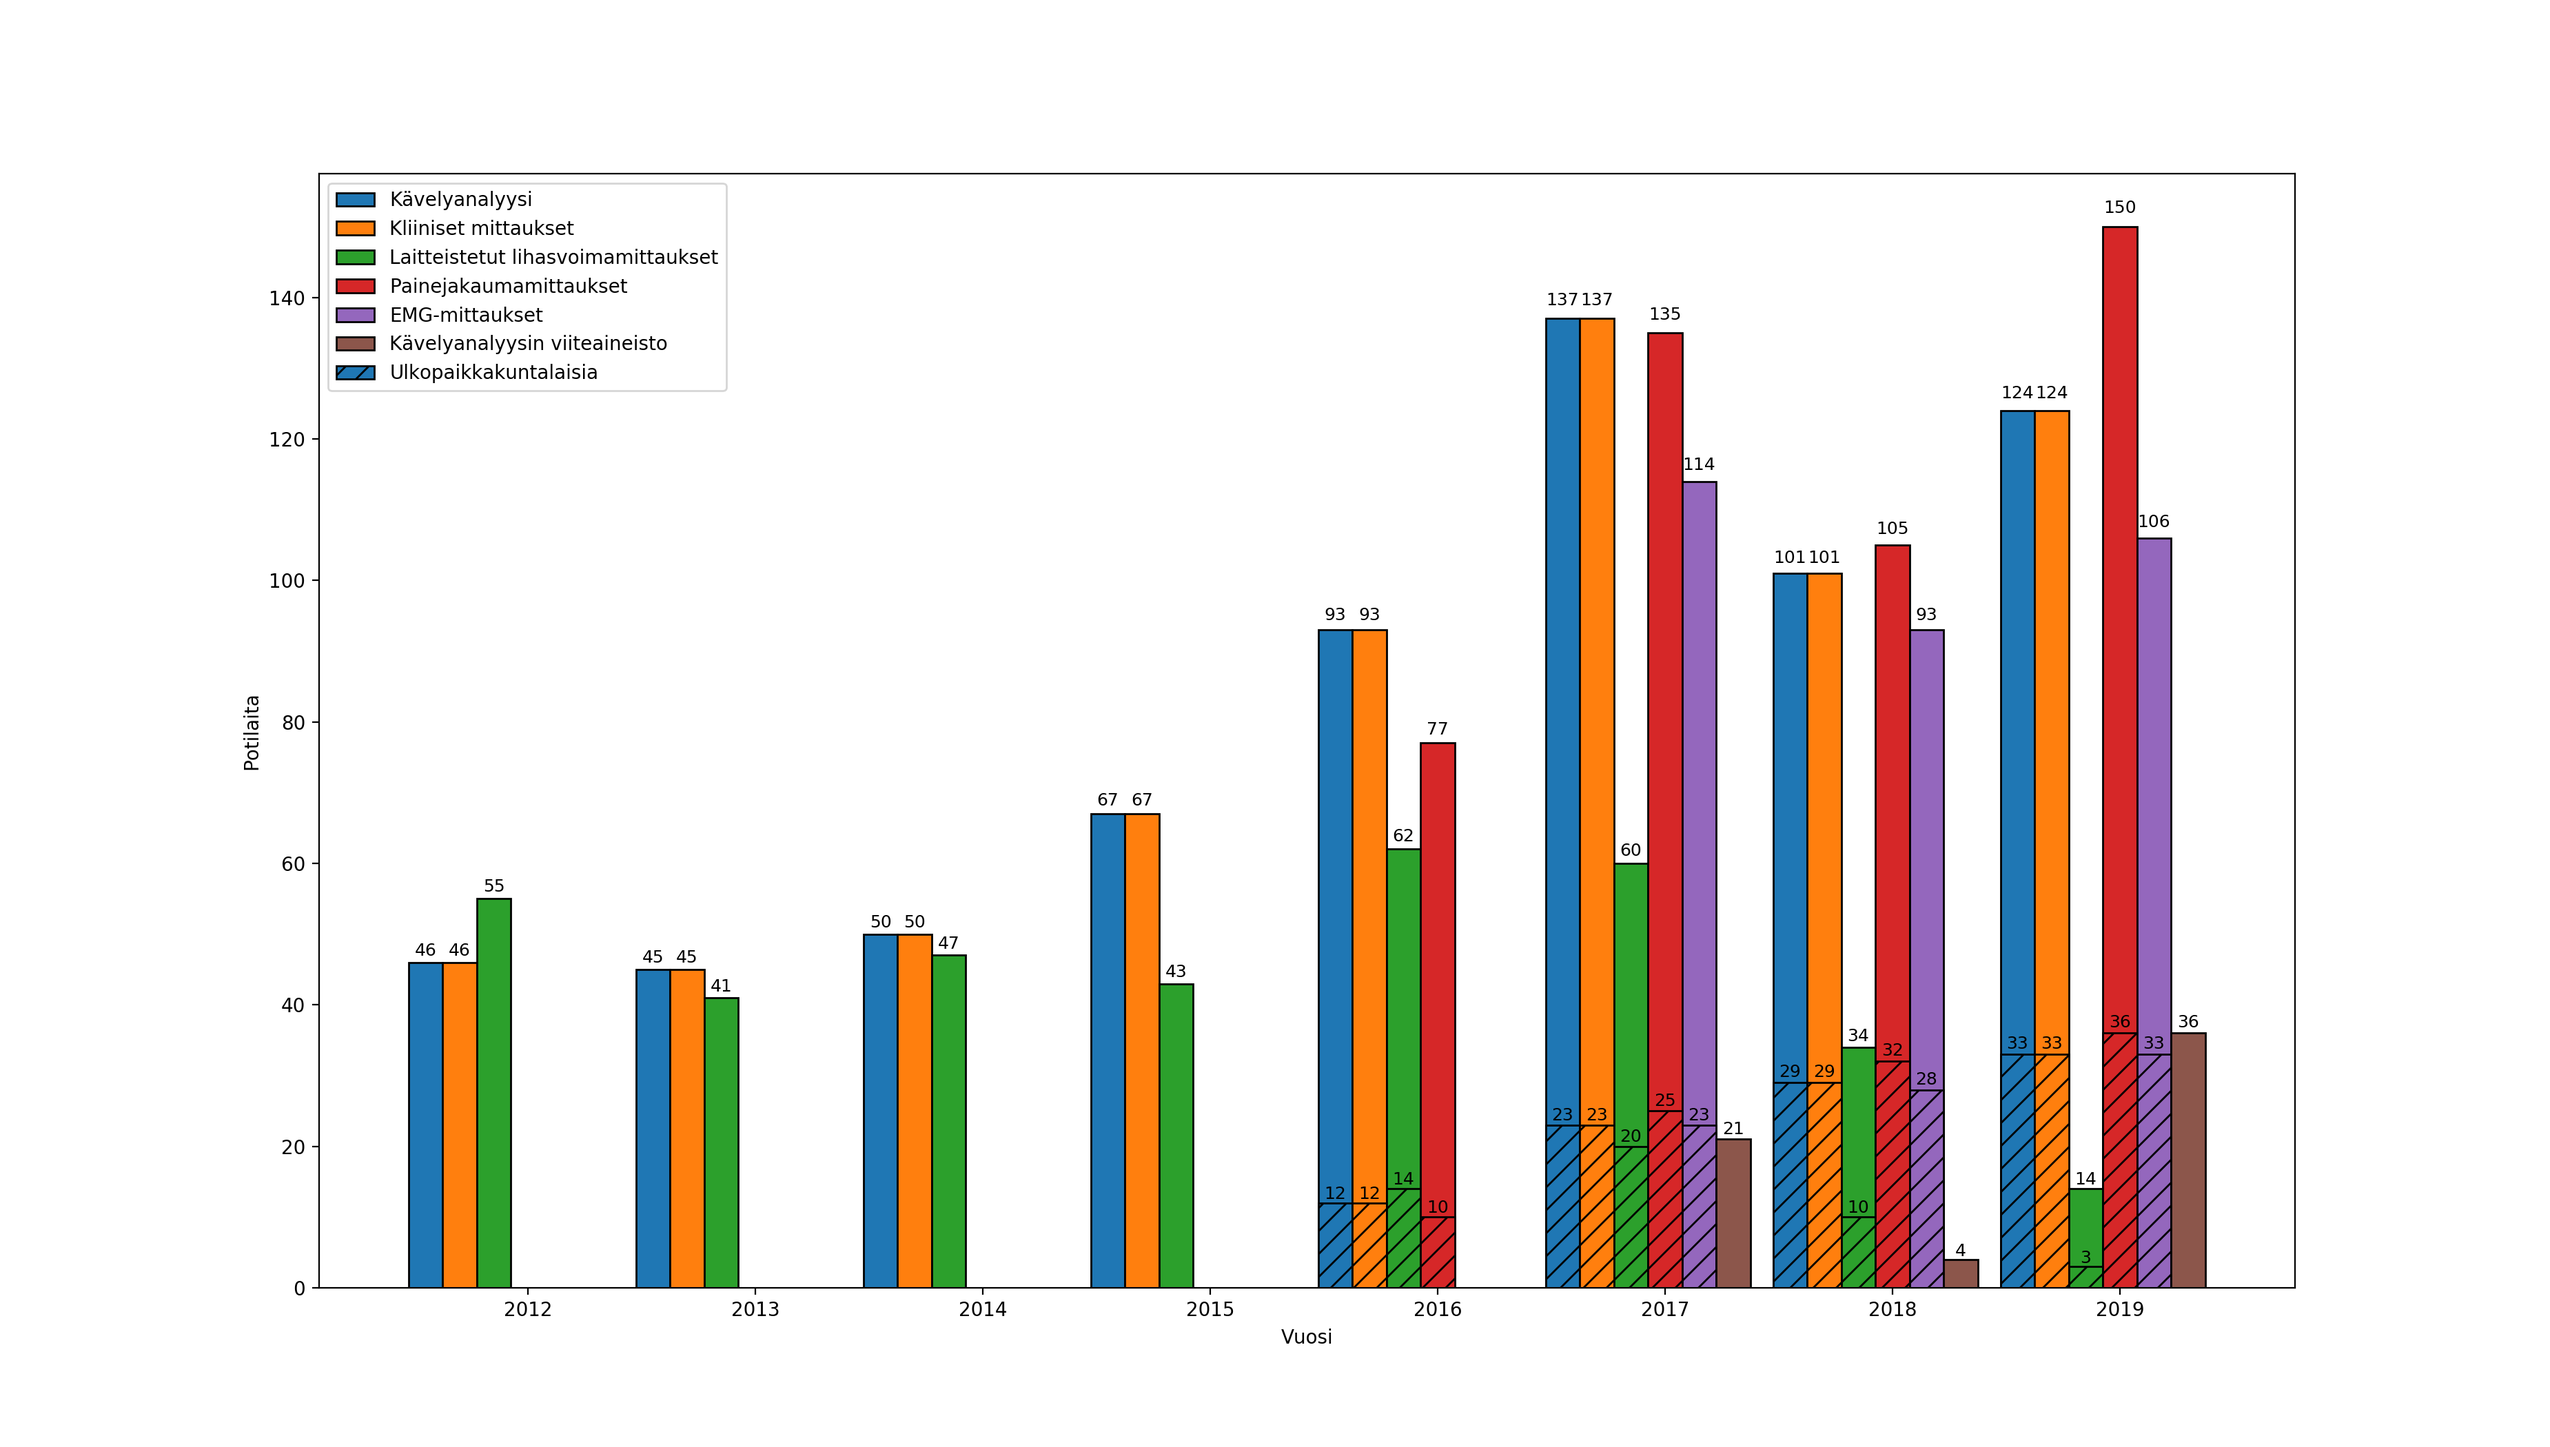
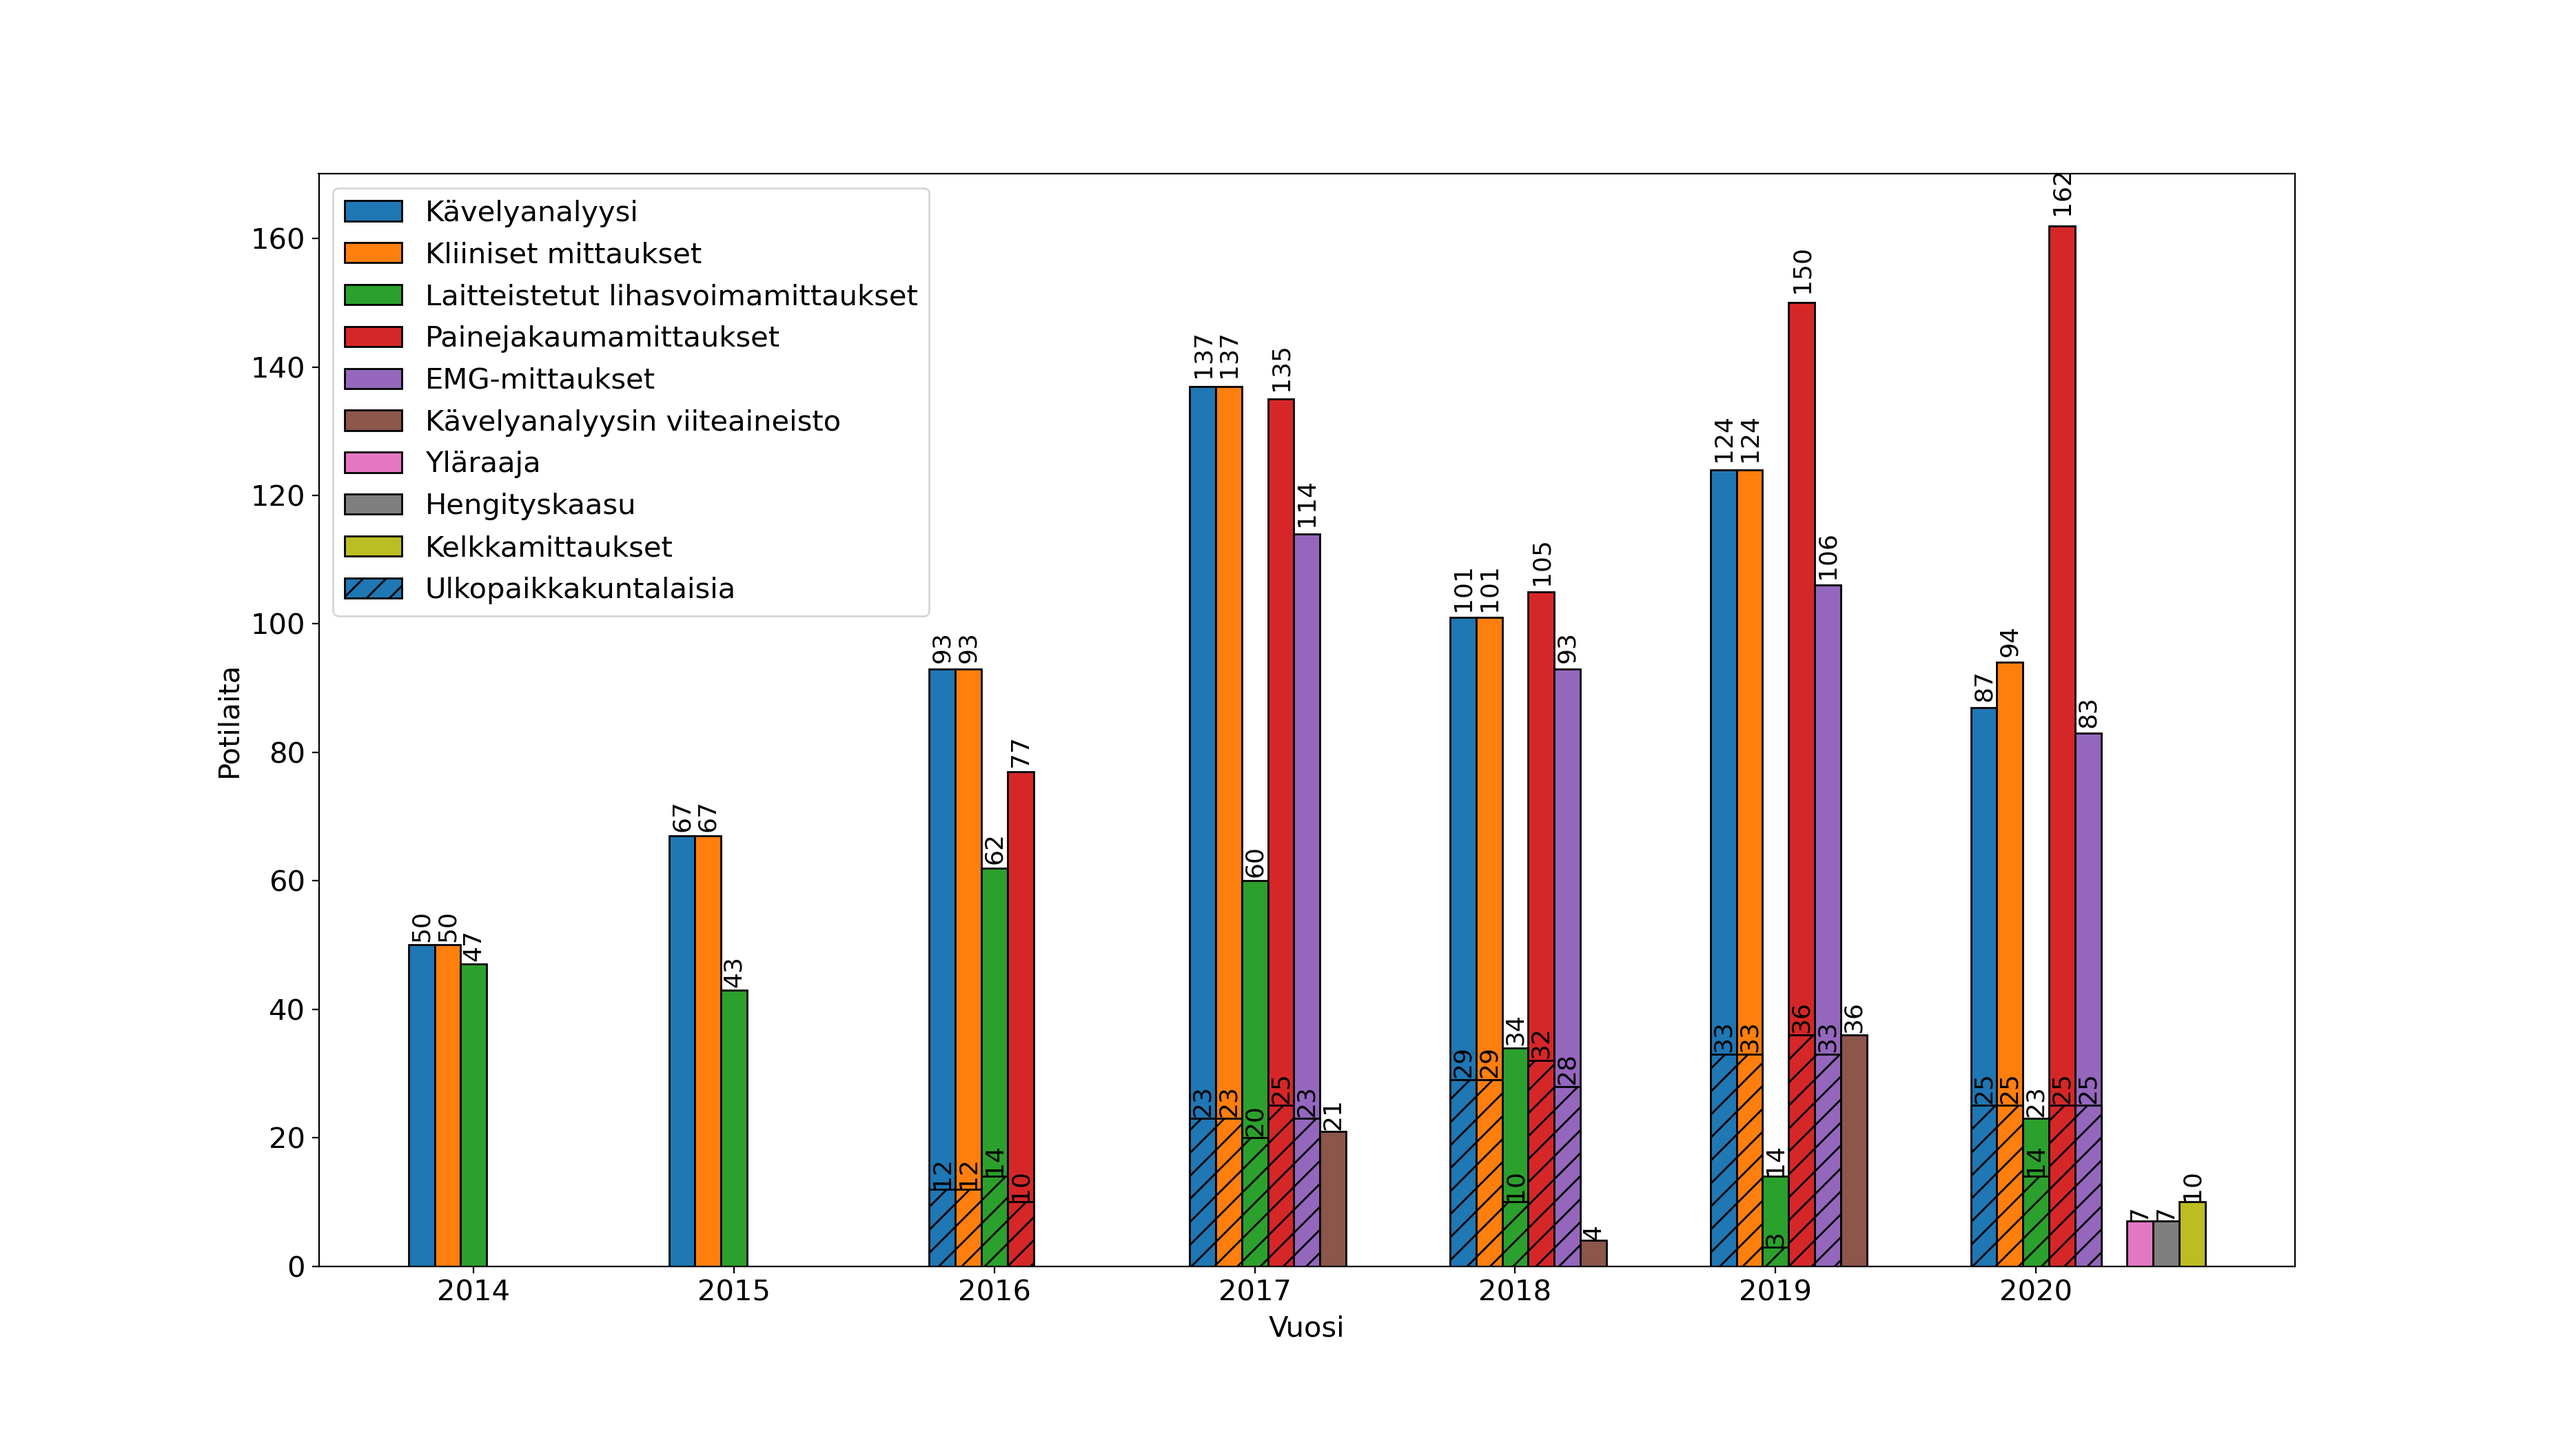
new stats for 2020 & limit years plotted

diff --git a/misc/potilaat_barchart.py b/misc/potilaat_barchart.py
@@ -10,6 +10,12 @@ import matplotlib.pyplot as plt
 import numpy as np
 from collections import OrderedDict
 
+FONTSIZE = 15
+
+# set global font size
+plt.rc('font', size=FONTSIZE)
+
+
 
 def autolabel(rects):
     """
@@ -18,38 +24,91 @@ def autolabel(rects):
     for rect in rects:
         height = rect.get_height()
         if height != 0:
-            plt.text(rect.get_x() + rect.get_width()/2., 1.01*height,
-                     '%d' % int(height), ha='center', va='bottom', fontsize=9)
+            plt.text(
+                rect.get_x() + rect.get_width() / 2,
+                1.01 * height,
+                '%d' % int(height),
+                ha='center',
+                va='bottom',
+                fontsize=FONTSIZE-2,
+                rotation=90,
+            )
+
 
 # specify input data
-yrs = range(2012, 2020)
+
+# years corresponding to data vectors
+yrs = range(2012, 2021)
+# optionally, only plot data for certain years
+yrs_plot = range(2014, 2021)
+
+# 2020 uudet kategoriat:
+#
+# yläraaja
+# liikelaajuus = kliininen mittaus
+# kelkkamittaus
+# hengityskaasu
+
 
 data = OrderedDict()  # bars will be plotted in the order they are given here
 data[u'Kävelyanalyysi'] = dict()
-data[u'Kävelyanalyysi']['total'] = [46, 45, 50, 67, 93, 137, 101, 124]
-data[u'Kävelyanalyysi']['ulko'] = [0, 0, 0, 0, 12, 23, 29, 33]
+data[u'Kävelyanalyysi']['total'] = [46, 45, 50, 67, 93, 137, 101, 124, 87]
+data[u'Kävelyanalyysi']['ulko'] = [0, 0, 0, 0, 12, 23, 29, 33, 25]
 
 data[u'Kliiniset mittaukset'] = dict()
-data[u'Kliiniset mittaukset']['total'] = [46, 45, 50, 67, 93, 137, 101, 124]
-data[u'Kliiniset mittaukset']['ulko'] = [0, 0, 0, 0, 12, 23, 29, 33]
+data[u'Kliiniset mittaukset']['total'] = [46, 45, 50, 67, 93, 137, 101, 124, 94]
+data[u'Kliiniset mittaukset']['ulko'] = [0, 0, 0, 0, 12, 23, 29, 33, 25]
 
 data[u'Laitteistetut lihasvoimamittaukset'] = dict()
-data[u'Laitteistetut lihasvoimamittaukset']['total'] = [55, 41, 47, 43, 62, 60, 34, 14]
-data[u'Laitteistetut lihasvoimamittaukset']['ulko'] = [0, 0, 0, 0, 14, 20, 10, 3]
+data[u'Laitteistetut lihasvoimamittaukset']['total'] = [
+    55,
+    41,
+    47,
+    43,
+    62,
+    60,
+    34,
+    14,
+    23,
+]
+data[u'Laitteistetut lihasvoimamittaukset']['ulko'] = [0, 0, 0, 0, 14, 20, 10, 3, 14]
 
 data[u'Painejakaumamittaukset'] = dict()
-data[u'Painejakaumamittaukset']['total'] = [0, 0, 0, 0, 77, 135, 105, 150]
-data[u'Painejakaumamittaukset']['ulko'] = [0, 0, 0, 0, 10, 25, 32, 36]
+data[u'Painejakaumamittaukset']['total'] = [0, 0, 0, 0, 77, 135, 105, 150, 162]
+data[u'Painejakaumamittaukset']['ulko'] = [0, 0, 0, 0, 10, 25, 32, 36, 25]
 
 data[u'EMG-mittaukset'] = dict()
-data[u'EMG-mittaukset']['total'] = [0, 0, 0, 0, 0, 114, 93, 106]
-data[u'EMG-mittaukset']['ulko'] = [0, 0, 0, 0, 0, 23, 28, 33]
+data[u'EMG-mittaukset']['total'] = [0, 0, 0, 0, 0, 114, 93, 106, 83]
+data[u'EMG-mittaukset']['ulko'] = [0, 0, 0, 0, 0, 23, 28, 33, 25]
 
 data[u'Kävelyanalyysin viiteaineisto'] = dict()
-data[u'Kävelyanalyysin viiteaineisto']['total'] = [0, 0, 0, 0, 0, 21, 4, 36]
-data[u'Kävelyanalyysin viiteaineisto']['ulko'] = [0, 0, 0, 0, 0, 0, 0, 0]
+data[u'Kävelyanalyysin viiteaineisto']['total'] = [0, 0, 0, 0, 0, 21, 4, 36, 0]
+data[u'Kävelyanalyysin viiteaineisto']['ulko'] = [0, 0, 0, 0, 0, 0, 0, 0, 0]
 
-assert all(len(yrs) == len(li) for di in data.values() for li in di.values())
+data[u'Yläraaja'] = dict()
+data[u'Yläraaja']['total'] = [0, 0, 0, 0, 0, 0, 0, 0, 7]
+data[u'Yläraaja']['ulko'] = [0, 0, 0, 0, 0, 0, 0, 0, 0]
+
+data[u'Hengityskaasu'] = dict()
+data[u'Hengityskaasu']['total'] = [0, 0, 0, 0, 0, 0, 0, 0, 7]
+data[u'Hengityskaasu']['ulko'] = [0, 0, 0, 0, 0, 0, 0, 0, 0]
+
+data[u'Kelkkamittaukset'] = dict()
+data[u'Kelkkamittaukset']['total'] = [0, 0, 0, 0, 0, 0, 0, 0, 10]
+data[u'Kelkkamittaukset']['ulko'] = [0, 0, 0, 0, 0, 0, 0, 0, 0]
+
+# check length
+for var, di in data.items():
+    for name, li in di.items():
+        if len(li) != len(yrs):
+            raise RuntimeError(u'invalid data length for %s/%s' % (var, name))
+
+# crop data to desired years
+# assumes continuous ranges
+start_ind, end_ind = yrs.index(yrs_plot[0]), yrs.index(yrs_plot[-1]) 
+for var, di in data.items():
+    for name, li in di.items():
+        di[name] = li[start_ind:end_ind+1]
 
 for subdata in data.values():
     subdata['total'] = np.array(subdata['total'])
@@ -60,7 +119,7 @@ fig = plt.figure(figsize=(14, 10))
 
 # compute spacing between bars
 n_subdata = len(data)
-bar_spacing = .1  # min spacing between bar sets
+bar_spacing = 0.1  # min spacing between bar sets
 bar_width = (1 - bar_spacing) / n_subdata
 
 # plot all bars
@@ -68,12 +127,18 @@ cmap = plt.get_cmap("tab10")
 bars = list()
 bars_u = list()
 for k, (title, subdata) in enumerate(data.items()):
-    shift = (k - n_subdata/2) * bar_width
-    b = plt.bar([y + shift for y in yrs], subdata['total'],
-                width=bar_width, color=cmap(k))
+    shift = (k - n_subdata / 2) * bar_width
+    b = plt.bar(
+        [y + shift for y in yrs_plot], subdata['total'], width=bar_width, color=cmap(k)
+    )
     [br.set_edgecolor("black") for br in b]
-    bu = plt.bar([y + shift for y in yrs], subdata['ulko'],
-                 width=bar_width, color=cmap(k), hatch='//')
+    bu = plt.bar(
+        [y + shift for y in yrs_plot],
+        subdata['ulko'],
+        width=bar_width,
+        color=cmap(k),
+        hatch='//',
+    )
     [br.set_edgecolor("black") for br in bu]
     bars.append(b)
     bars_u.append(bu)
@@ -81,12 +146,18 @@ for k, (title, subdata) in enumerate(data.items()):
 for b in bars + bars_u:
     autolabel(b)
 
-plt.legend(bars+bars_u[:1], list(data.keys()) + ['Ulkopaikkakuntalaisia'], loc='upper left')
+plt.legend(
+    bars + bars_u[:1], list(data.keys()) + ['Ulkopaikkakuntalaisia'], loc='upper left'
+)
 plt.ylabel('Potilaita')
 plt.xlabel('Vuosi')
+# shift the xticklabels a bit
+plt.xticks(yrs_plot)
+locs, labels = plt.xticks()
+locs = [x - 0.25 for x in locs]
+plt.xticks(locs, yrs_plot)
 
+fn = 'tilastot_%d.png' % max(yrs_plot)
 fig.set_size_inches(18.5, 10.5)
-plt.savefig('tilastot_2020.png', dpi=200)
-
-
-
+plt.savefig(fn, dpi=200)
+print('wrote %s' % fn)
